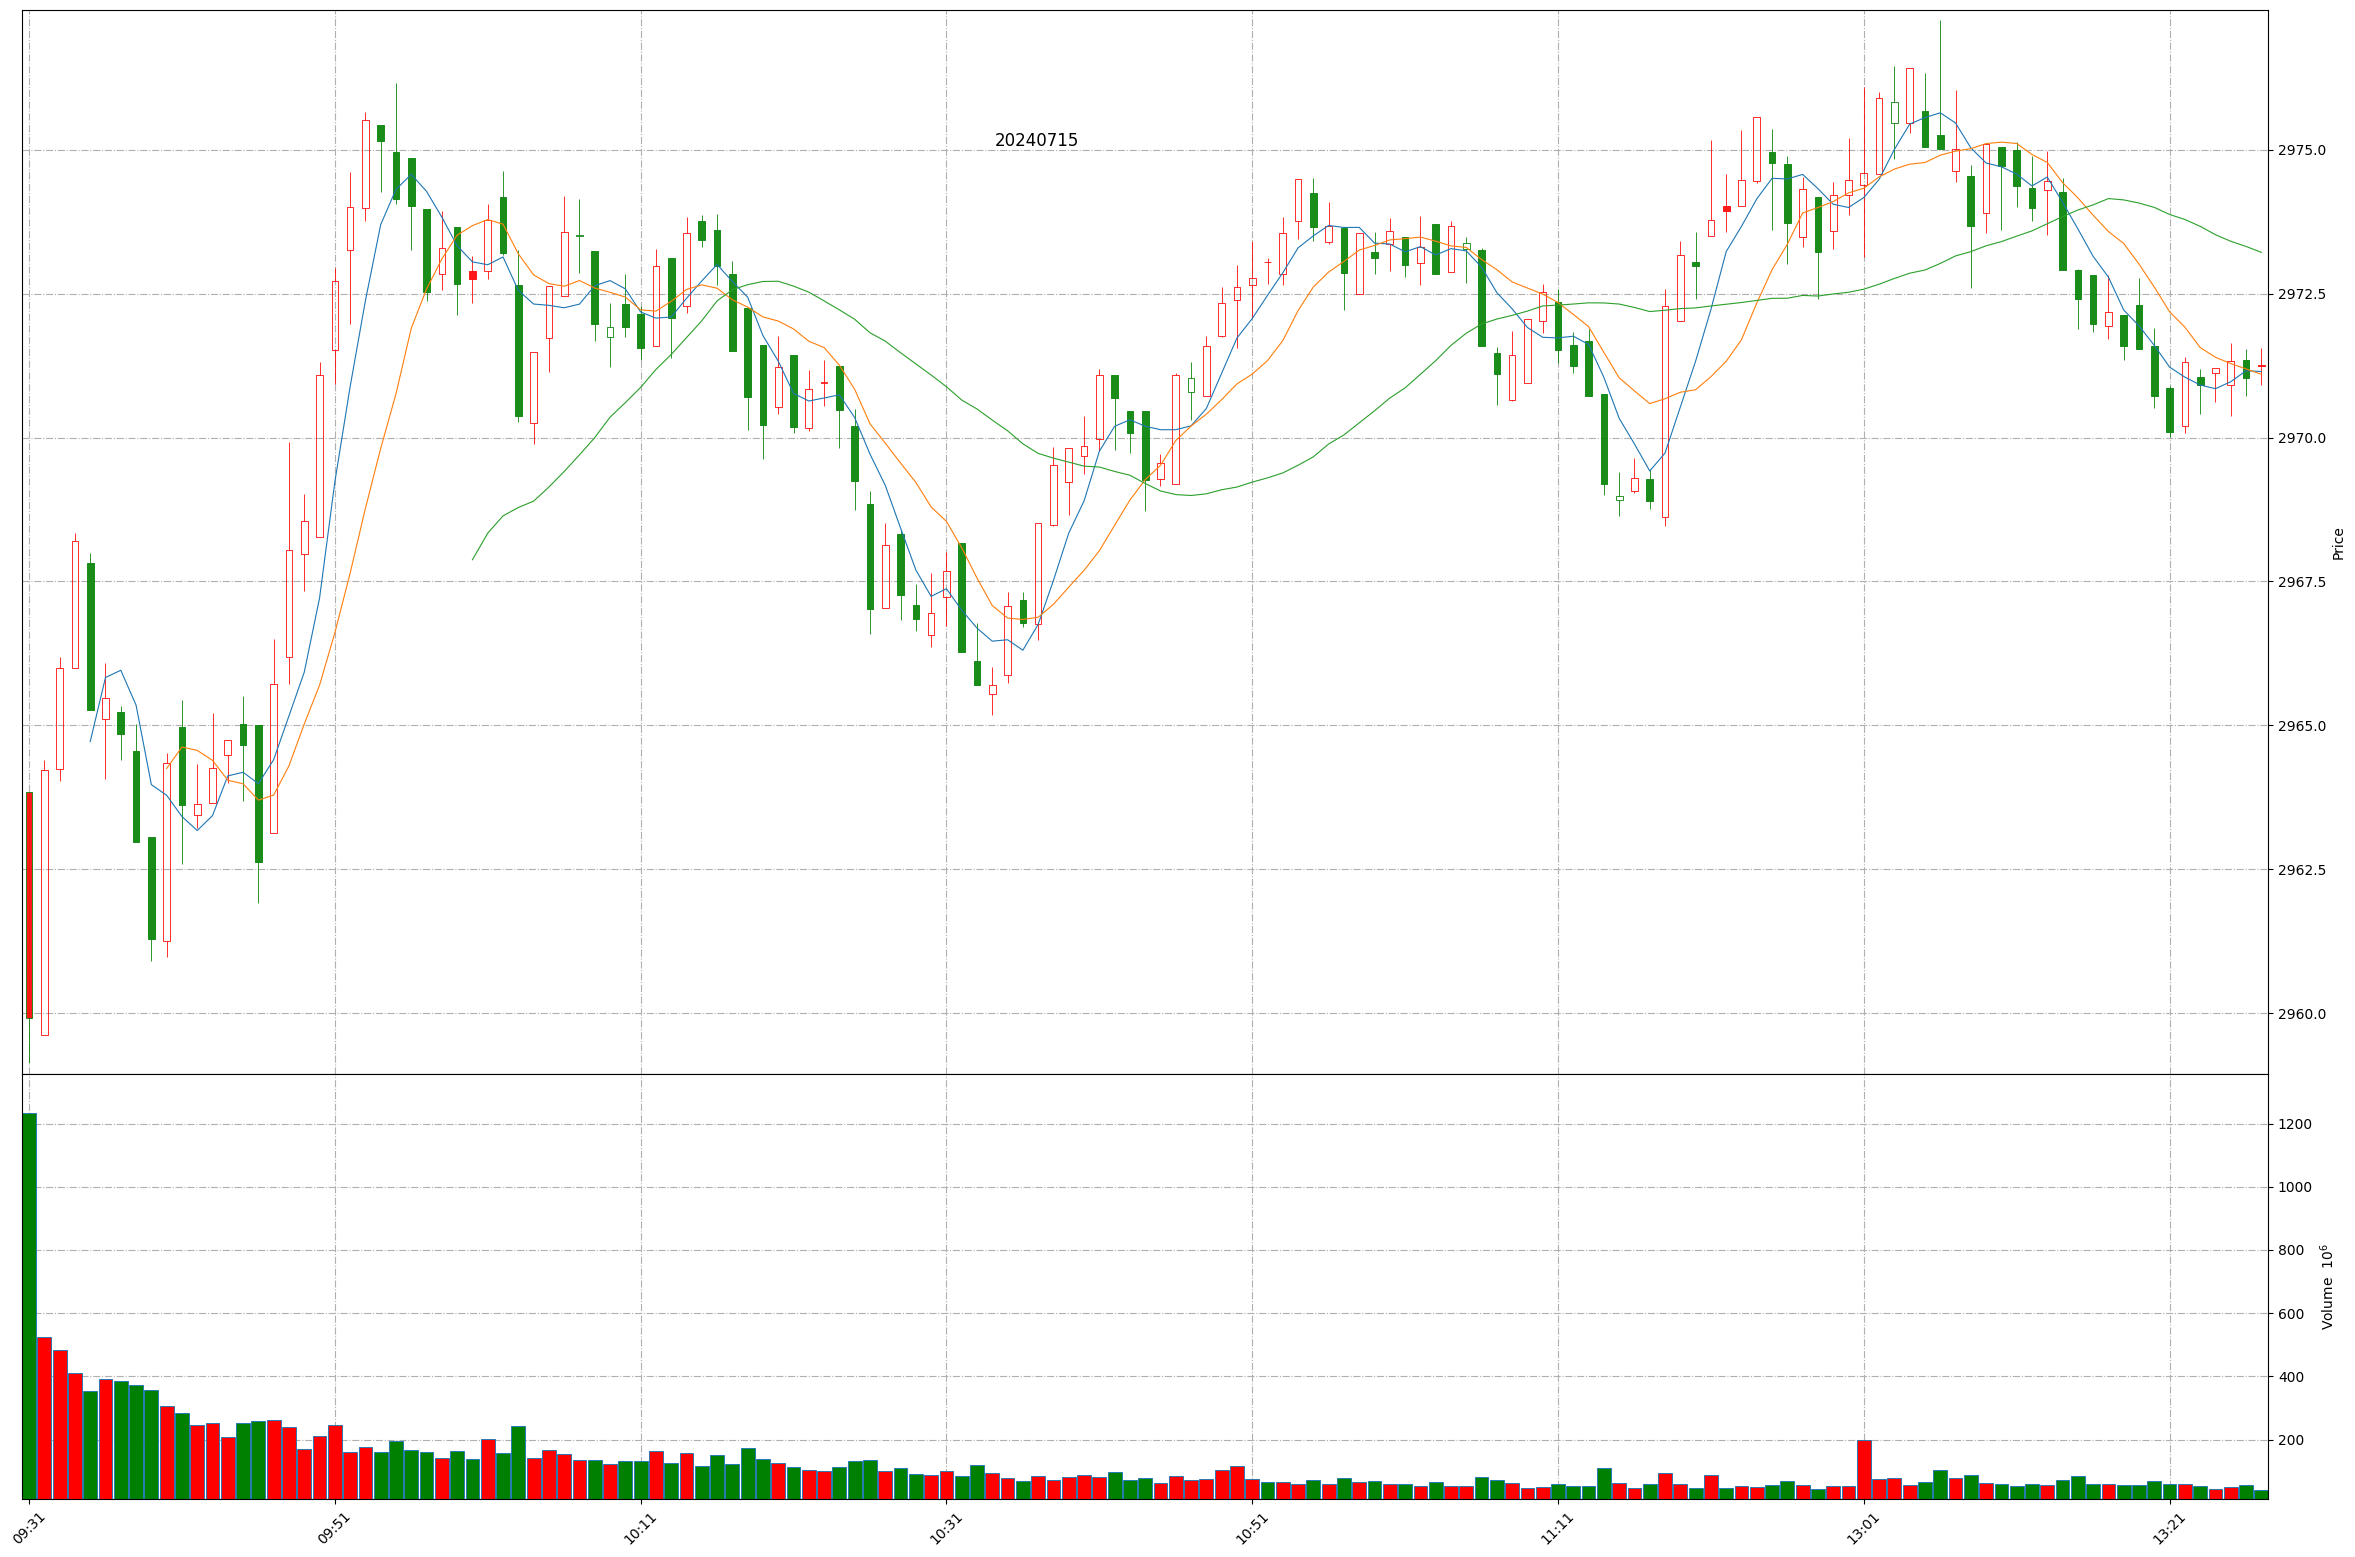
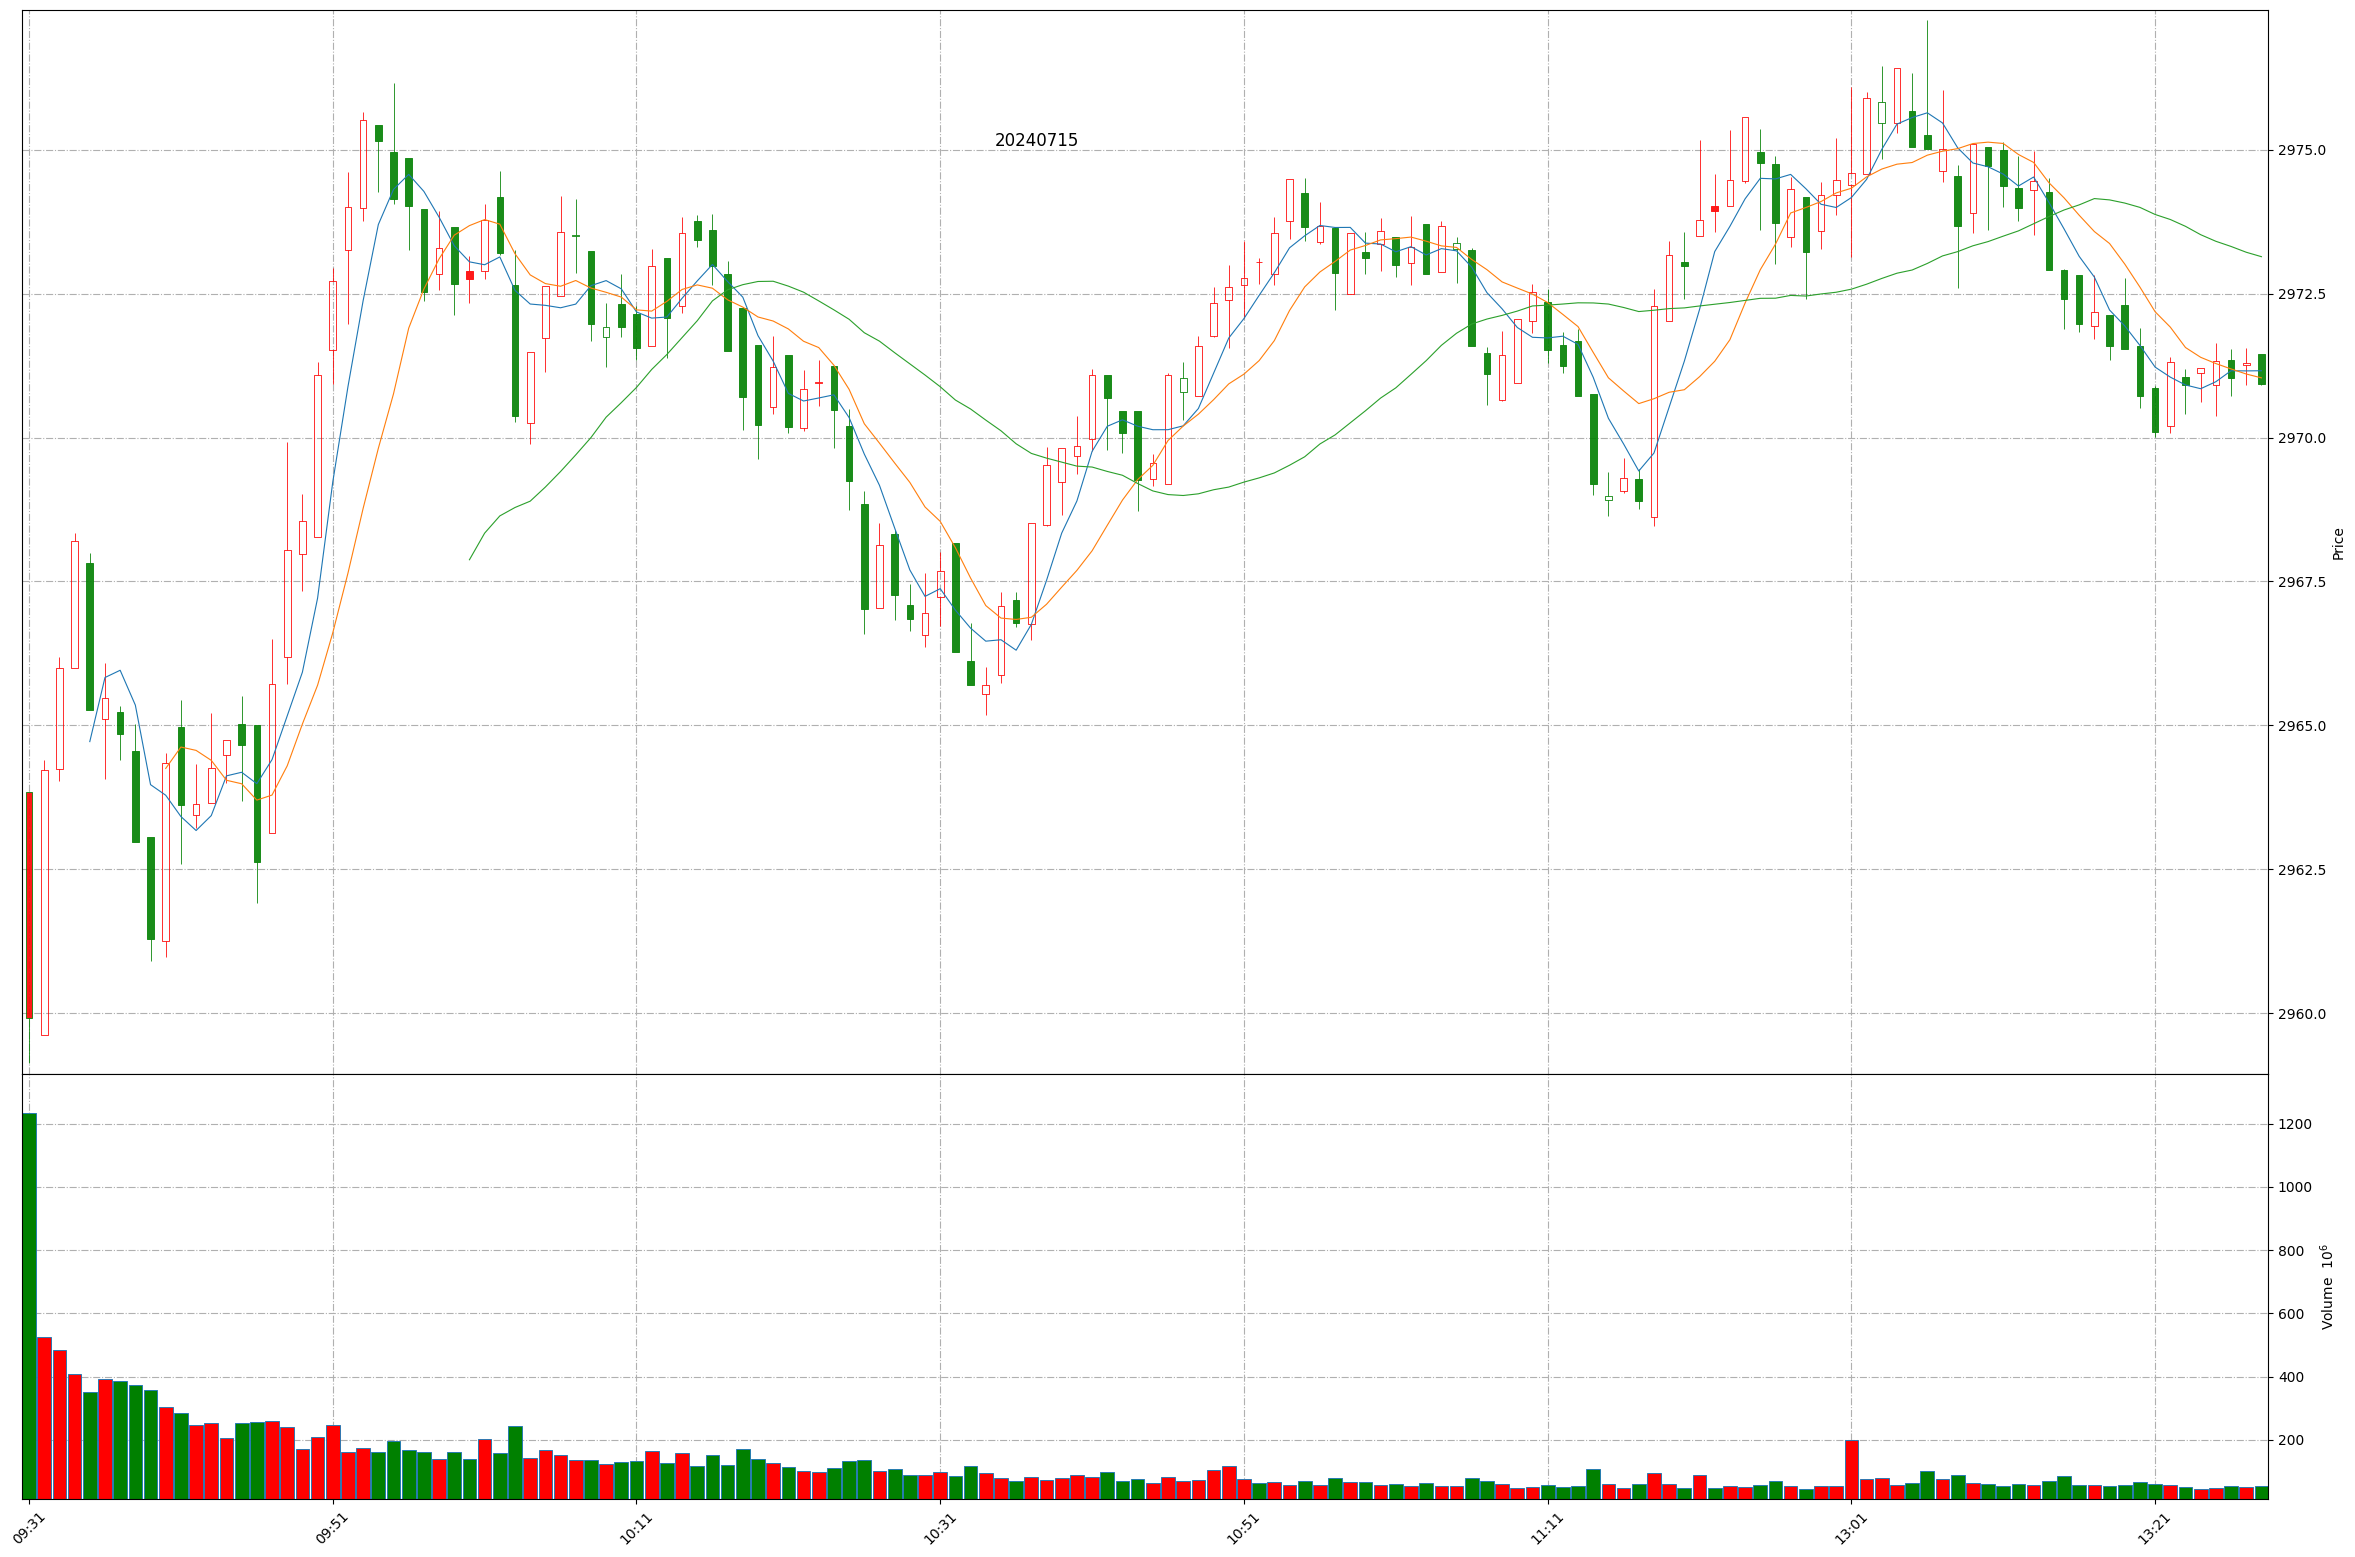
Github action update at 2024-07-15 13:28:23.

diff --git a/README.md b/README.md
@@ -1,11 +1,11 @@
 
 # Daily-A-share-market-quotes 每日 A 股指数（5min 更新）- 20240715
 
-### 上证指数 20240715 13:27
+### 上证指数 20240715 13:28
 ![](./fig/2024/7/20240715-sh000001.png)
 
-### 深证成指 20240715 13:27
+### 深证成指 20240715 13:28
 ![](./fig/2024/7/20240715-sz399001.png)
 
-### 北证50 20240715 13:27
+### 北证50 20240715 13:28
 ![](./fig/2024/7/20240715-bj899050.png)
